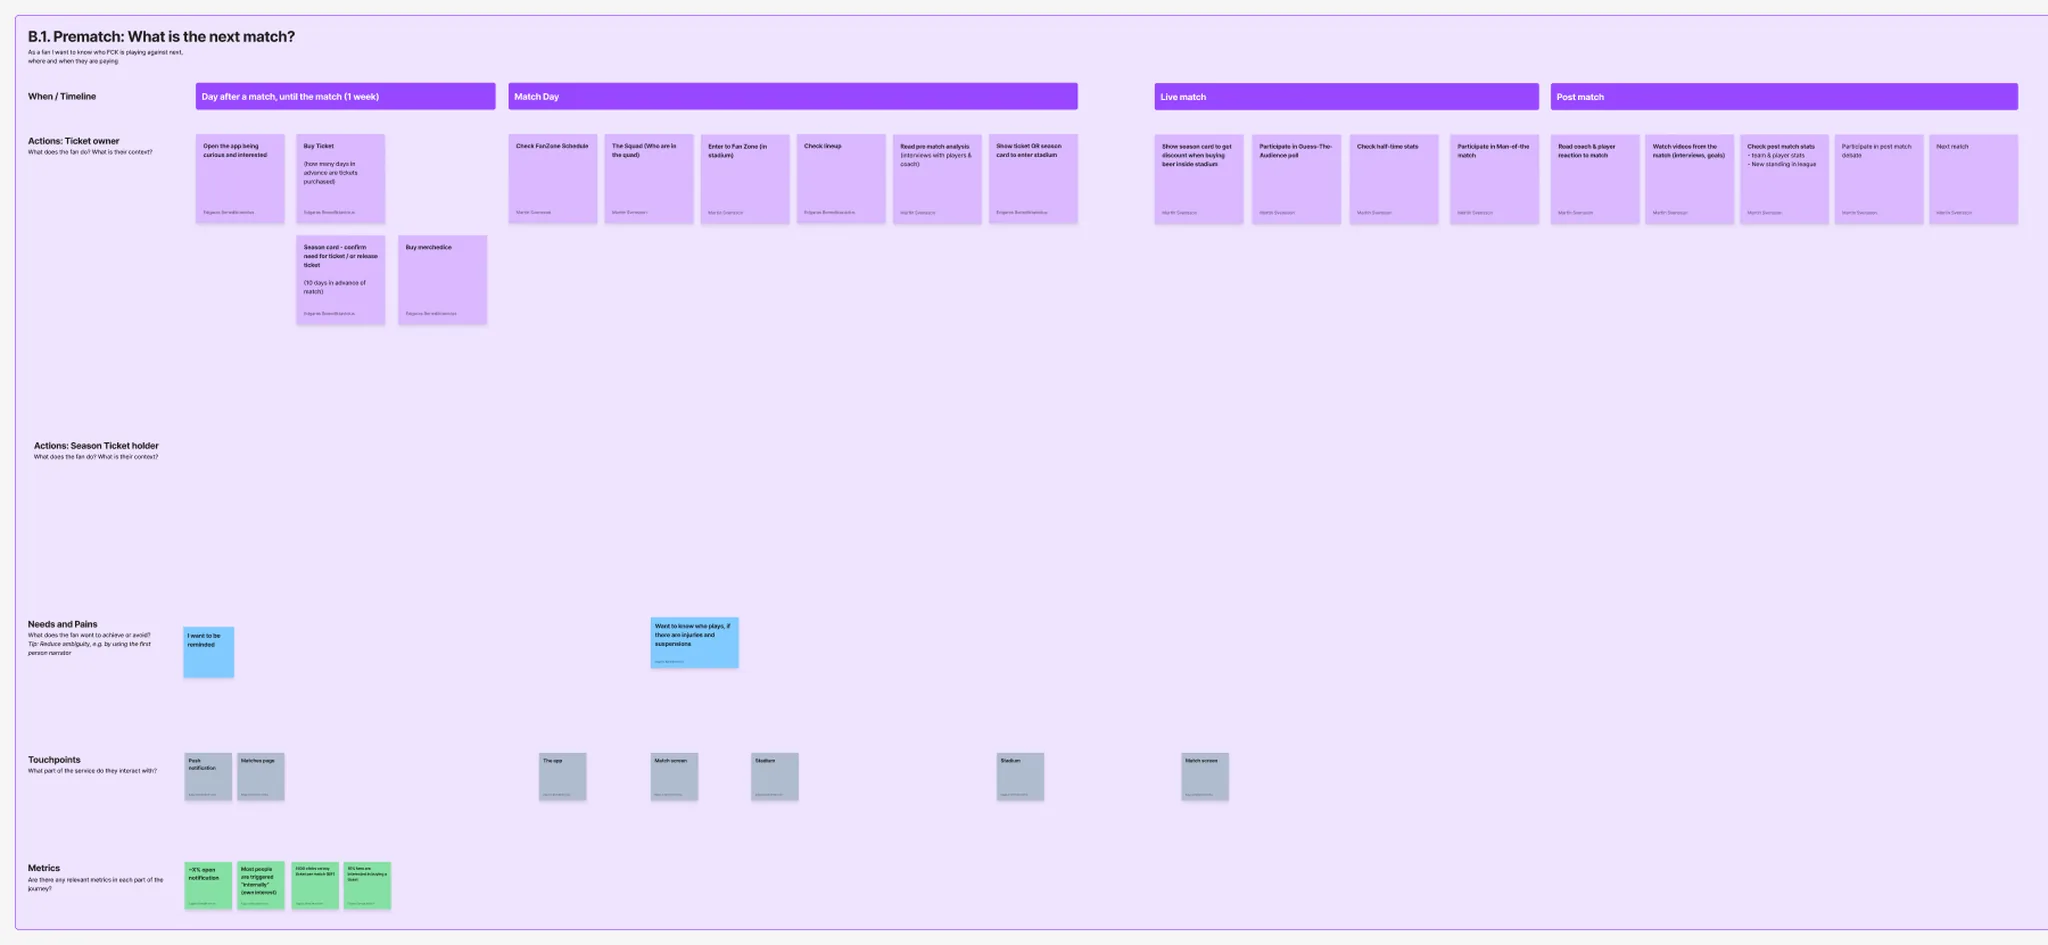
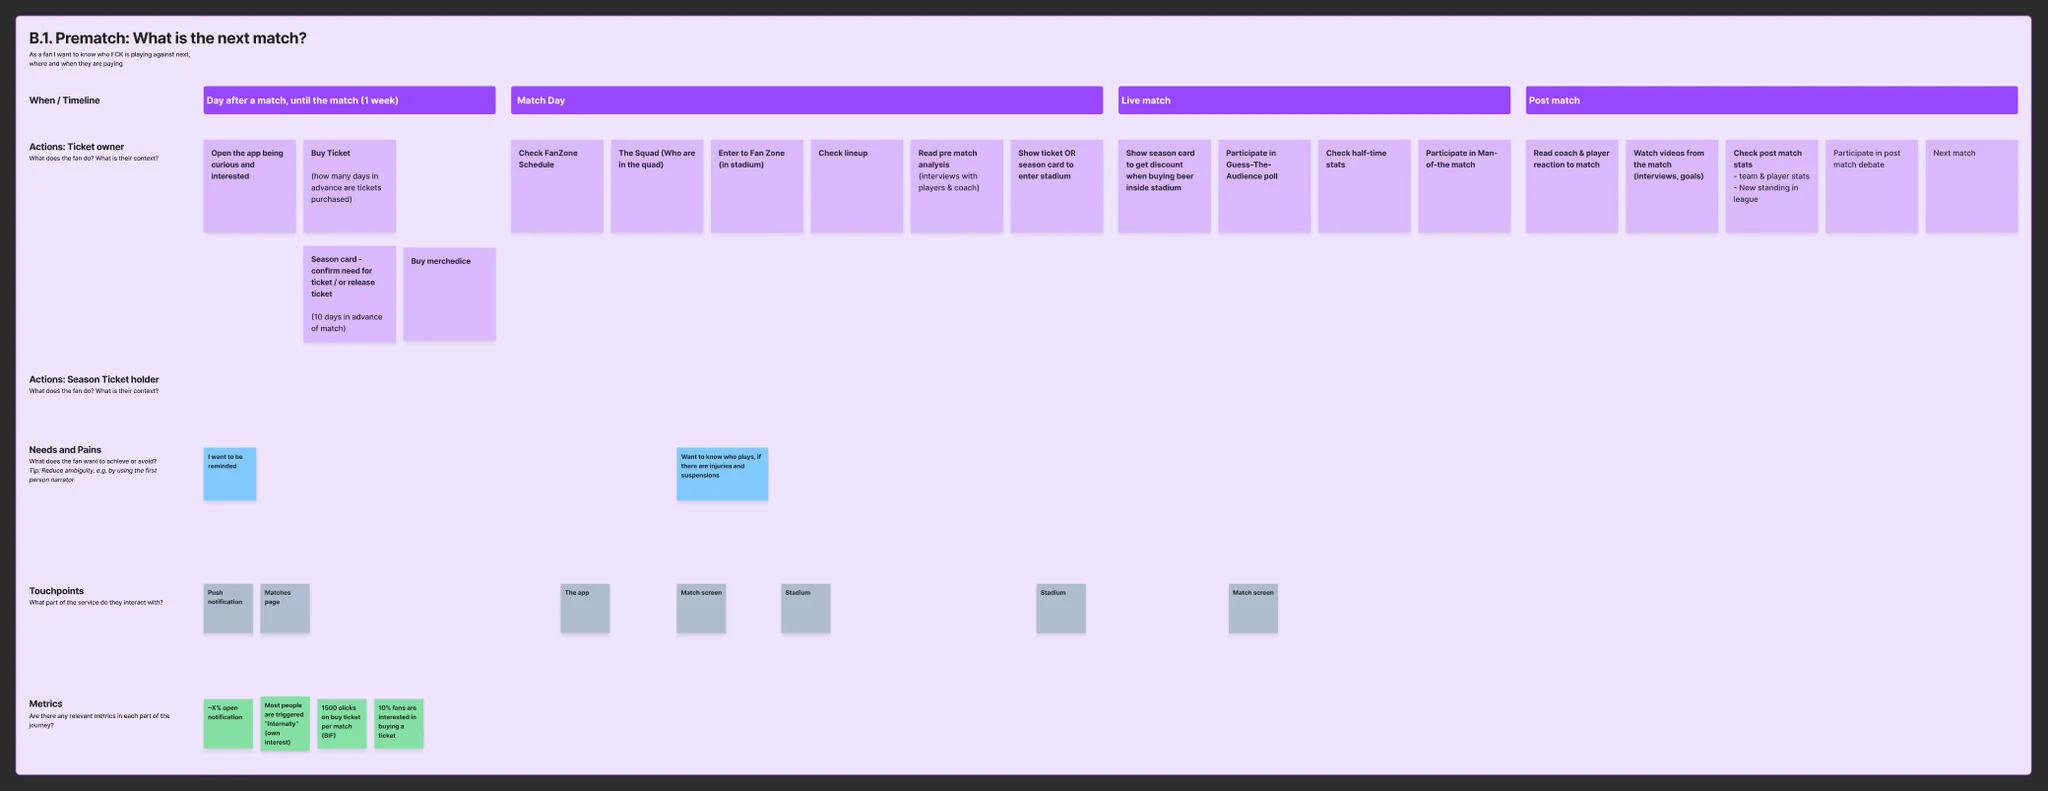
White-label case: refresh TEST-vs-club and FCK journey images
- TEST skeleton now matches the club screen structure
- FCK journey board re-exported from the tidied Figma copy

Claude-Session: https://claude.ai/code/session_01MkgcQijRKxNi5uAKBjC4dC

diff --git a/white-label-app.html b/white-label-app.html
@@ -54,7 +54,7 @@
 <ul class="reveal"><li>One codebase for 10+&nbsp;club brands, each with its own colours, fonts and imagery</li><li>Used at home and in a crowded stadium, often with one hand</li><li>Two ticket providers, Roboticket and Eventii, with different rules, waiting states and errors</li><li>Up to 40% of season-card holders need to release or transfer a ticket for each match</li></ul>
 <h2 class="reveal">Process</h2>
 <p class="reveal">We worked from fan scenarios, not from screens. The FCK board follows one fan question — what is the next match? — from the day after a game to the final whistle of the next one.</p>
-<div class="media reveal"><figure class="fig"><img src="img/white-label-app/process-fck-journey.webp" alt="FCK journey map: what a fan does the week before, on match day, during and after the match" width="2048" height="945" loading="lazy" decoding="async"><figcaption>FCK board<span class="sep">·</span>what is the next match?</figcaption></figure></div>
+<div class="media reveal"><figure class="fig"><img src="img/white-label-app/process-fck-journey.webp" alt="FCK journey map: what a fan does the week before, on match day, during and after the match" width="2048" height="791" loading="lazy" decoding="async"><figcaption>FCK board<span class="sep">·</span>what is the next match?</figcaption></figure></div>
 <p class="reveal">For the Brøndby&nbsp;IF app we benchmarked how four big clubs sell match tickets in their apps. Three paths end on an external site, and one gets stuck at the login request.</p>
 <div class="media reveal"><figure class="fig"><img src="img/white-label-app/process-benchmark.webp" alt="Benchmark of buy-ticket journeys in the Juventus, FC Barcelona, Manchester City and Inter apps: number of steps, where each path ends, and what works or hurts" width="2048" height="1153" loading="lazy" decoding="async"><figcaption>Buy-ticket benchmark<span class="sep">·</span>Juventus, FC&nbsp;Barcelona, Manchester&nbsp;City, Inter</figcaption></figure></div>
 <p class="reveal">Before the screens I mapped how a new fan gets into the app: first open, permissions, login or skip, home. Notifications and location matter on match day, but they should not block someone who only wants to see the next game.</p>
